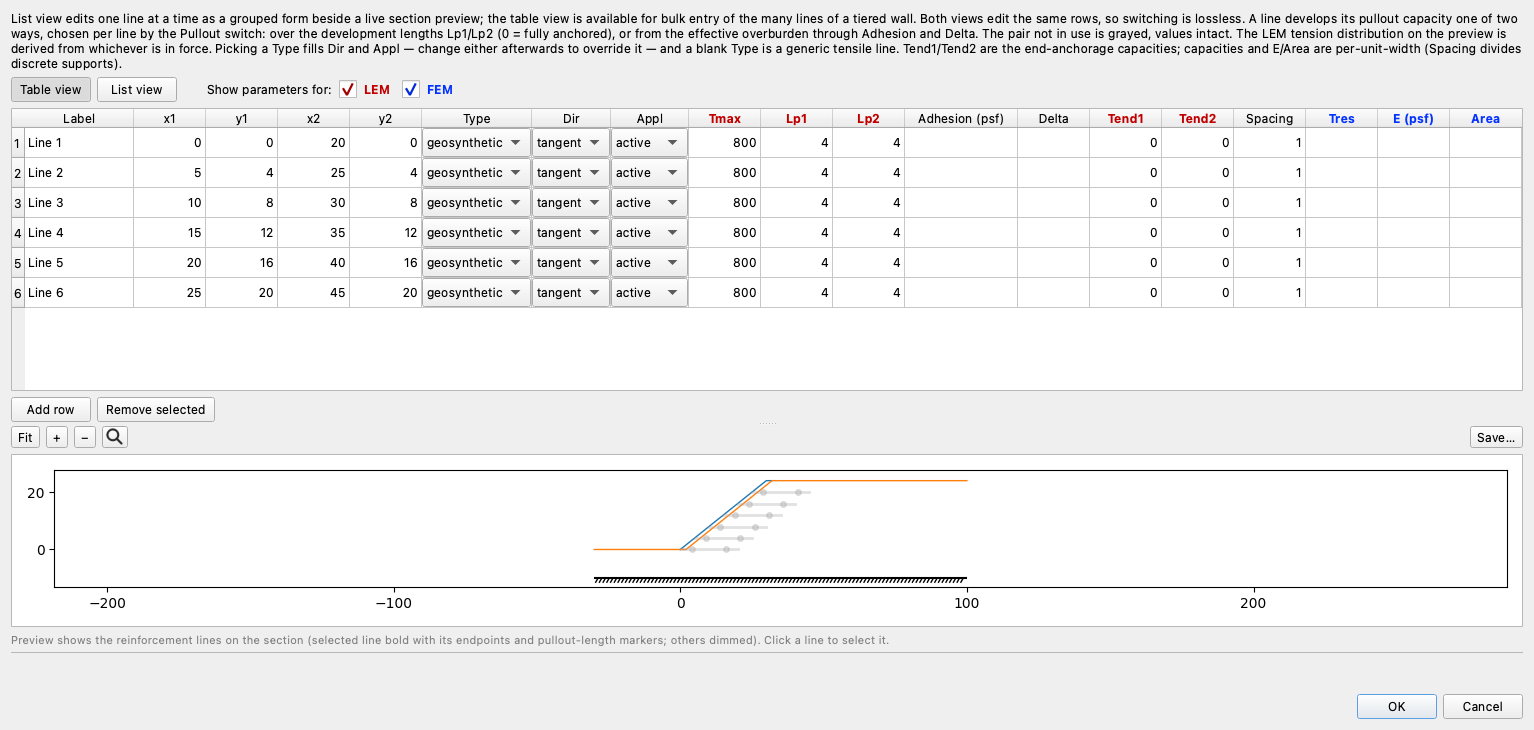
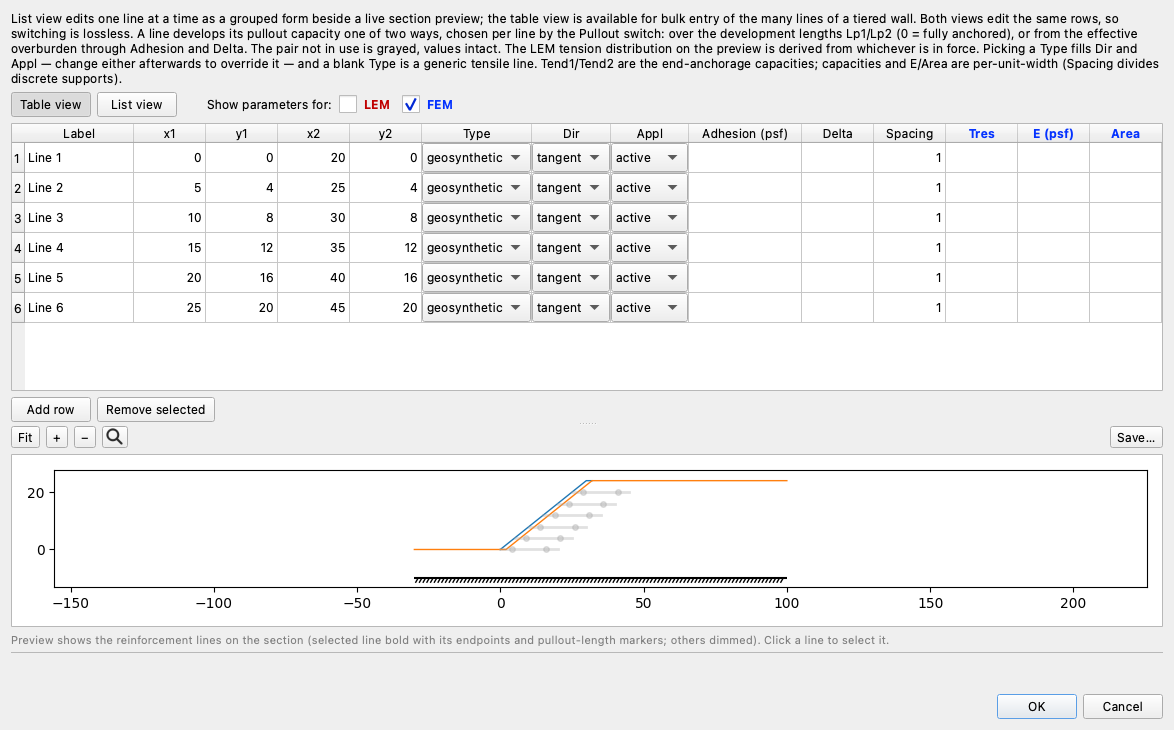
docs(tutorials): FEM-2 reinforcement table shows FEM columns alone
Claude-Session: https://claude.ai/code/session_01XjjT2aBxw8gY7EFdpoUcpj

diff --git a/tools/capture_tutorial_screenshots.py b/tools/capture_tutorial_screenshots.py
@@ -2237,14 +2237,14 @@ def fem02_reinforce_blank():
     """The reinforcement table as the STARTER delivers it: six lines with their
     geometry, tensile capacity and pullout lengths, and Tres, E and Area empty.
 
-    Both usage toggles are ticked, so the limit-equilibrium columns the file
-    already carries sit beside the three the reader is about to fill.
+    Only the FEM toggle is ticked: the LEM inputs are complete, so the table
+    shows just the geometry and the three columns the reader is about to fill.
     """
     from studio.editors import ReinforcementEditor
 
     dlg = ReinforcementEditor().build(_load(FEM02_START), None)
     for tag, cb in (getattr(dlg, "_toggles", None) or {}).items():
-        cb.setChecked(True)
+        cb.setChecked(tag == "fem")
     return _grab(_line_table(dlg, through="area"),
                  "fem02_studio_reinforce_blank.png")
 
@@ -2256,7 +2256,7 @@ def fem02_reinforce_filled():
 
     dlg = ReinforcementEditor().build(_load(FEM02_DONE), None)
     for tag, cb in (getattr(dlg, "_toggles", None) or {}).items():
-        cb.setChecked(True)
+        cb.setChecked(tag == "fem")
     return _grab(_line_table(dlg, through="area"),
                  "fem02_studio_reinforce_filled.png")
 

diff --git a/docs/tutorials/fem02_reinforcement.md b/docs/tutorials/fem02_reinforcement.md
@@ -313,9 +313,10 @@ is measured further down, because on a reinforced model the answer is different
 from the one FEM-1 reports. Click **OK**.
 
 The reinforcement's two columns are next. Open **Reinforcement** in the Inputs
-dock, and set the **Show parameters for:** toggles so both **LEM** and **FEM**
-are ticked — the three columns at the right end, in blue, are the ones only the
-finite element engine reads.
+dock, and set the **Show parameters for:** toggles to **FEM** alone, as on the
+materials table — the limit equilibrium inputs are complete and can stay out of
+view. The three columns at the right end, in blue, are the ones only the finite
+element engine reads.
 
 ![The reinforcement table on the starter: Tres, E and Area empty](images/fem02_studio_reinforce_blank.png)
 
